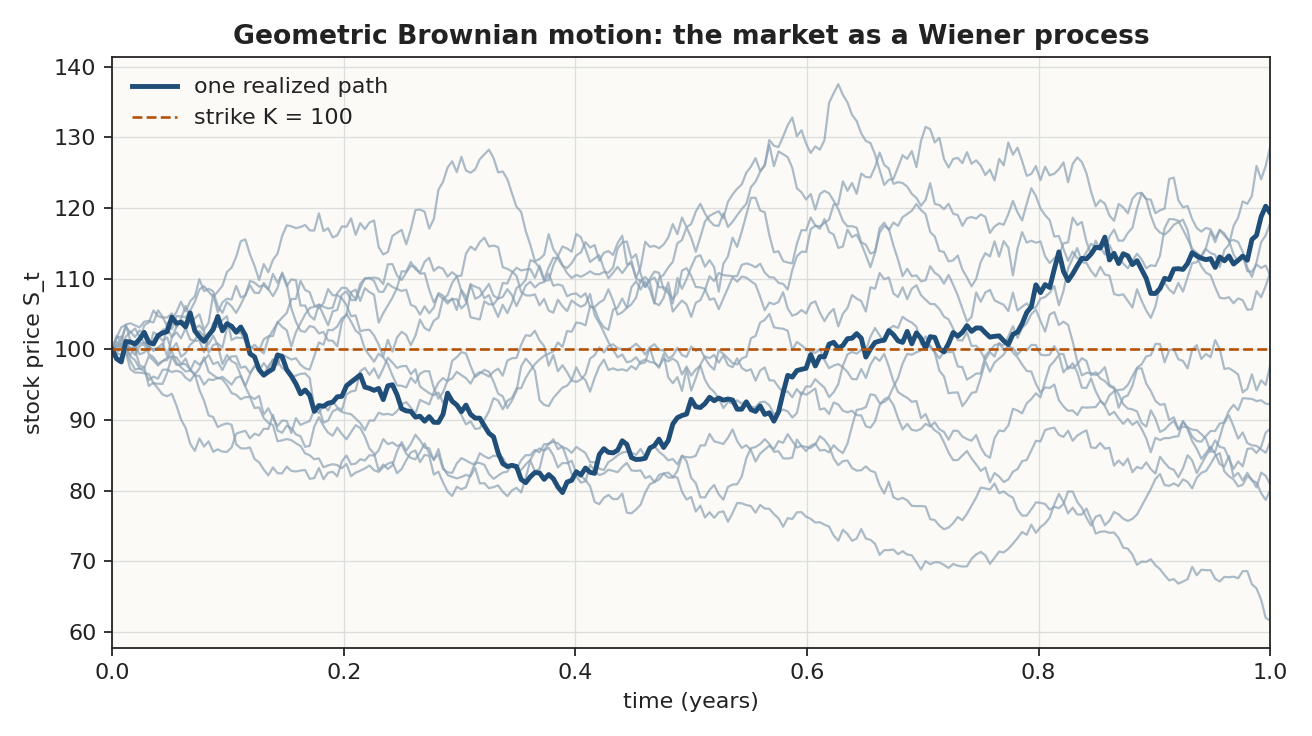
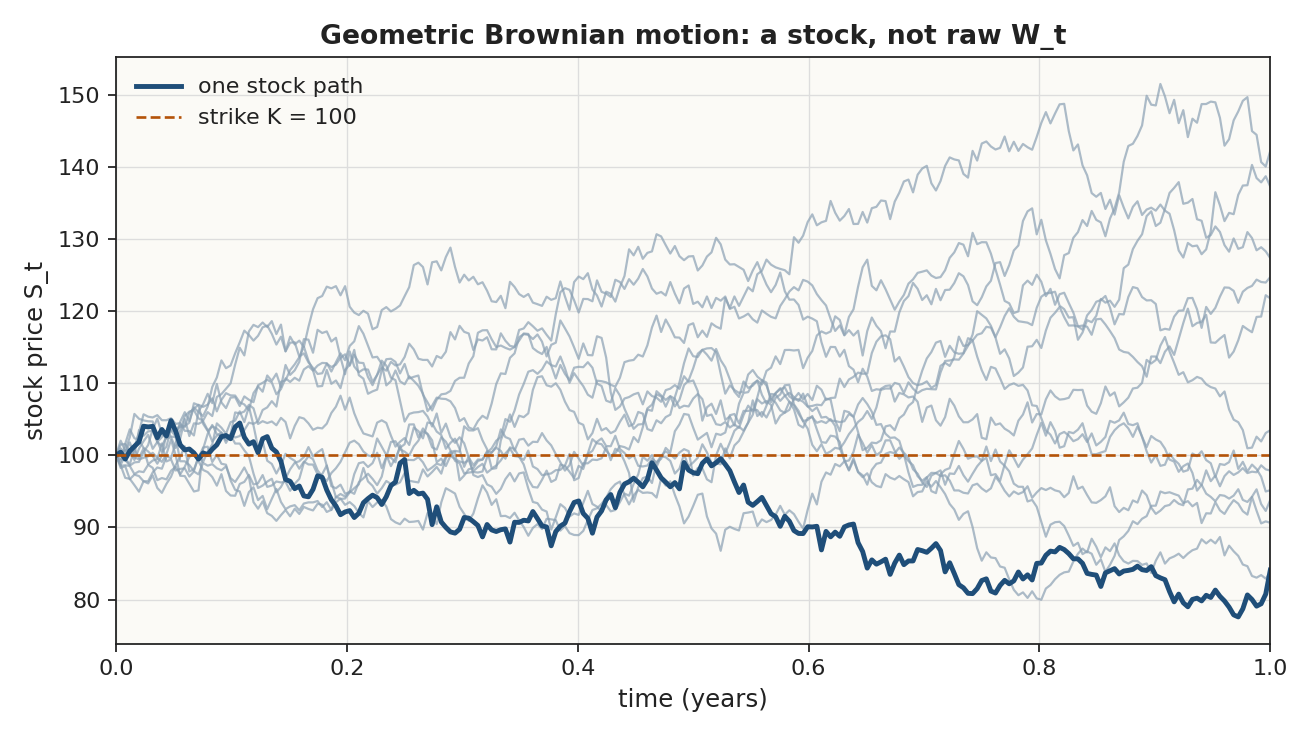
Define Brownian motion in math and pictures for the BSM note
Add the coin-flip construction, W_t ~ N(0,t) with path and
histogram figures, then define leftover terms on first use.

diff --git a/_posts/2024-07-25-Black-Scholes-Merton.md b/_posts/2024-07-25-Black-Scholes-Merton.md
@@ -6,7 +6,7 @@ categories: wealth
 mathjax: true
 ---
 
-The Black–Scholes–Merton formula prices a European call on a non-dividend stock. Fischer Black and Myron Scholes published the PDE and its solution in 1973; Robert Merton derived the same price from a more general theory the same year. The inputs are the spot $S_t$, the strike $K$, the time to expiry $\tau = T-t$, a constant interest rate $r$, and a constant volatility $\sigma$. The output is
+The Black–Scholes–Merton formula prices a European call on a stock that pays no dividend. Fischer Black and Myron Scholes published it in 1973; Robert Merton derived the same price from a more general theory the same year. The inputs are the current stock price $S_t$ (the **spot**), the strike $K$, the time left until expiry $\tau = T-t$, a constant interest rate $r$, and a constant **volatility** $\sigma$ (how wildly the stock's *log* return wiggles, measured as a standard deviation per square-root year). The output is
 
 $$
 C(S_t,K,T) = S_t\,\Phi(d_1) - K e^{-r\tau}\,\Phi(d_2), \tag{1}
@@ -16,18 +16,20 @@ $$
 d_1 = \frac{\ln(S_t/K)+\bigl(r+\tfrac12\sigma^2\bigr)\tau}{\sigma\sqrt{\tau}}, \qquad d_2 = d_1 - \sigma\sqrt{\tau},
 $$
 
-where $\Phi$ is the standard normal cdf,
+where $\Phi$ is the **cumulative distribution function** (cdf) of the standard normal: the area under the bell curve to the left of $x$, which is also the probability that a standard-normal random variable $Z$ satisfies $Z\le x$,
 
 $$
-\Phi(x) = \frac{1}{\sqrt{2\pi}}\int_{-\infty}^{x} e^{-u^2/2}\,du.
+\Phi(x) = P(Z\le x) = \frac{1}{\sqrt{2\pi}}\int_{-\infty}^{x} e^{-u^2/2}\,du.
 $$
 
-This note derives $(1)$ from the lognormal law of $S_T$. The stock is a geometric Brownian motion; Itô's lemma makes $\ln S_T$ Gaussian; under the risk-neutral measure the parameters of that Gaussian are known; the call is then two integrals against a lognormal, and both integrals evaluate in closed form once you complete the square. A change of numeraire gives the same formula by a different bookkeeping. The PDE is recorded at the end as the same argument in another costume.
+This note derives $(1)$ by showing that the future stock price $S_T$ is **lognormal** (its logarithm is a bell curve) and then integrating the call payoff against that law. The noise in the stock is a **Brownian motion**, defined and graphed below. A second bookkeeping — changing the unit of account — gives the same formula. A partial differential equation at the end is the same argument in another costume.
 
 - [What is being priced](#what-is-being-priced)
 - [A numerical check](#a-numerical-check)
+- [Brownian motion](#brownian-motion)
+- [The stock: geometric Brownian motion](#the-stock-geometric-brownian-motion)
 - [Assumptions](#assumptions)
-- [Wiener processes and martingales](#wiener-processes-and-martingales)
+- [Martingales](#martingales)
 - [Itô's lemma](#itos-lemma)
 - [Risk-neutral pricing](#risk-neutral-pricing)
 - [Toolkit: the lognormal](#toolkit-the-lognormal)
@@ -50,11 +52,11 @@ $$
 (S_T - K)^+ = \max(S_T - K,\, 0).
 $$
 
-A **European put** is the right to sell at $K$, payoff $(K - S_T)^+$. An **American** contract may be exercised at any time up to $T$. That extra right is a genuine complication: the holder is solving an optimal-stopping problem, and there is no two-$\Phi$ formula for a general American put. One mercy, due to Merton: a call on a non-dividend stock is never exercised early, so the American call collapses to the European one. We price the European call. The European put then follows from put-call parity, not from a second integral.
+A **European put** is the right to sell at $K$, payoff $(K - S_T)^+$. An **American** contract may be exercised at any time up to $T$. That extra right is a genuine complication: at every moment the holder must decide whether to exercise now or wait, and there is no two-$\Phi$ formula for a general American put. One mercy, due to Merton: a call on a non-dividend stock is never exercised early, so the American call collapses to the European one. We price the European call. The European put then follows from put-call parity, not from a second integral.
 
 ![A European call: the kink at expiry, the smooth price today](/blog/assets/2024/bsm/call-payoff.png)
 
-The brown line is the expiry payoff. The blue curve is the time-$t$ value of that lottery, for one year of remaining life and the parameters of the next section. The shaded gap is time value. Equation $(1)$ is a machine that draws the blue curve.
+The brown line is the expiry payoff. The blue curve is the time-$t$ value of that lottery, for one year of remaining life and the parameters of the next section. The shaded gap is **time value**: extra worth from still having time left for the stock to wander. Equation $(1)$ is a machine that draws the blue curve.
 
 ---
 
@@ -75,12 +77,12 @@ $$
 
 | Symbol | Meaning |
 |---|---|
-| $S_t$ | spot |
-| $K$ | strike |
-| $r$ | continuously compounded risk-free rate, constant |
-| $\tau = T-t$ | time remaining, in years |
-| $\sigma$ | volatility of the *log* return, per square-root year |
-| $\Phi$ | standard normal cdf |
+| $S_t$ | spot: the stock price right now |
+| $K$ | strike: the price the call lets you buy at |
+| $r$ | risk-free interest rate, compounded continuously, held constant |
+| $\tau = T-t$ | time remaining until expiry, in years |
+| $\sigma$ | volatility: standard deviation of the log return, per $\sqrt{\text{year}}$ |
+| $\Phi$ | standard normal cdf, $P(Z\le x)$ |
 
 ```python
 from math import log, exp, sqrt, erf
@@ -94,64 +96,133 @@ print(S*Phi(d1) - K*exp(-r*tau)*Phi(d2))
 
 ---
 
-# Assumptions
-{: #assumptions}
+# Brownian motion
+{: #brownian-motion}
 
-Four assumptions do the mathematics. A fifth is the trading plumbing that lets the mathematics be a *price*.
+A **Brownian motion** — also called a **Wiener process**, written $W_t$ — is the model of pure noise used in this note. Picture a pollen grain on a water surface, or a walker who at every instant takes a tiny random step up or down. The walker's height at time $t$ is $W_t$.
 
-1. **The stock is a geometric Brownian motion with constant coefficients.**
+It is *not* a stock price. It starts at $0$, it is as likely to be negative as positive, and its typical size at time $t$ is $\sqrt{t}$, not $t$. The stock will be built from it in the next section.
+
+## A coin-flip construction
+
+Fix a time horizon $T$ and chop it into $n$ equal pieces of length $\Delta t = T/n$. Flip a fair coin at each tick. On heads walk up $\sqrt{\Delta t}$; on tails walk down $\sqrt{\Delta t}$. After time $t = k\,\Delta t$ the position is
+
+$$
+W_t^{(n)} = \sqrt{\Delta t}\,(\xi_1 + \cdots + \xi_k), \qquad \xi_i = \pm 1 \text{ with equal probability}.
+$$
+
+Each step has mean $0$ and variance $\Delta t$, so the sum of $k$ steps has mean $0$ and variance $k\,\Delta t = t$. The central limit theorem — a sum of many small independent kicks becomes a bell curve — says that for large $n$ the position at a fixed $t$ is approximately $\mathcal{N}(0,t)$. Send $n\to\infty$ and the staircase becomes a continuous scribble. That scribble is Brownian motion.
+
+![A fair coin-flip walk becoming Brownian motion](/blog/assets/2024/bsm/random-walk-to-brownian.png)
+
+The three panels are the *same* sequence of coin flips, grouped into fewer, larger steps on the left and drawn almost continuously on the right. Brownian motion is the right-hand picture, taken as a mathematical limit.
+
+## The four properties, in symbols
+
+A **standard Brownian motion** is a random function $t\mapsto W_t$ satisfying:
+
+1. **Starts at zero.** $W_0 = 0$.
+2. **Independent increments.** For $t>s$, the future step $W_t-W_s$ does not depend on the path before time $s$. The next wiggle does not remember how it got here.
+3. **Gaussian increments.** $W_t - W_s \sim \mathcal{N}(0,\, t-s)$. In words: over an interval of length $\Delta t$ the step is drawn from a bell curve with mean $0$ and variance $\Delta t$. In particular the position itself is
    $$
-   dS_t = \mu S_t\,dt + \sigma S_t\,dW_t. \tag{2}
+   W_t \sim \mathcal{N}(0,t), \qquad \mathbb{E}[W_t] = 0, \qquad \mathrm{Var}(W_t) = t.
    $$
-   Prices stay positive, returns compound, and the only randomness is a single Wiener process $W_t$. No jumps, no stochastic volatility. This is what makes $S_T$ lognormal.
+   The **typical size** of $W_t$ is therefore the standard deviation $\sqrt{t}$, not $t$. Over a short interval the typical move is $\sqrt{\Delta t}$, which is much larger than $\Delta t$ itself when $\Delta t$ is small.
+4. **Continuous paths.** The graph of $t\mapsto W_t$ has no jumps. It is a jagged scribble with no breaks.
 
-2. **The short rate $r$ is a known constant.** Borrowing and lending are unlimited at $r$. The money-market account is then $B_t = e^{rt}$. Merton later let $r$ wander; the two-$\Phi$ formula does not survive that generalization in this form.
+**Normal reminder.** We write $Z\sim\mathcal{N}(m,s^2)$ to mean that $Z$ has the bell-curve (**Gaussian**, **normal**) density
 
-3. **No dividends during the life of the option.** A cash dividend drops $S$ by the amount paid and would change both the hedge and the law of $S_T$. The repair, recorded at the end, is one letter: a continuous yield $q$ replaces $S_t$ by $S_t e^{-q\tau}$ and $r$ by $r-q$ inside $d_1,d_2$.
+$$
+f(z) = \frac{1}{s\sqrt{2\pi}}\exp\Bigl(-\frac12\Bigl(\frac{z-m}{s}\Bigr)^2\Bigr).
+$$
 
-4. **No arbitrage, continuous trading, a complete market.** One source of noise and two traded assets (stock and bond) means every reasonable payoff can be replicated. The replicating portfolio's value is the price, and that is why the physical drift $\mu$ will cancel: the hedge does not contain it.
+The number $m$ is the mean, $s^2$ is the variance. The **standard normal** is the special case $\mathcal{N}(0,1)$. The function $\Phi$ at the top of this note is $P(Z\le x)$ for a standard normal $Z$.
 
-Plumbing, said once: short sales are allowed, proceeds may be used, securities are perfectly divisible, there are no transaction costs. None of that enters an integral.
+![Standard Brownian motion: paths, the $\sqrt{t}$ envelope, and the law of $W_1$](/blog/assets/2024/bsm/brownian-motion.png)
 
-The gap between this universe and listed options is the subject of Derman and Miller's *The Volatility Smile*. The market still *quotes* in the language of $(1)$.
+On the left, every path starts at $0$ and wanders equally above and below the axis — several paths are *negative*, which a stock price cannot be. The shaded trumpet is the band $\pm 2\sqrt{t}$; at each fixed $t$ about 95% of paths sit inside it, because a normal random variable is within two standard deviations of its mean about 95% of the time. On the right, many independent runs are stopped at $t=1$ and histogrammed. The histogram is the $\mathcal{N}(0,1)$ density, which is property 3 at $t=1$.
 
----
+## The increment $dW_t$, and why ordinary calculus fails
 
-# Wiener processes and martingales
-{: #wiener-processes-and-martingales}
-
-The Wiener process $W_t$ (standard Brownian motion) is the stand-in for market noise: not for the *level* of prices, which have drift and stay positive, but for the irreducible jitter.
-
-1. $W_0 = 0$.
-2. Independent increments: $W_t - W_s$ is independent of the path up to $s$.
-3. Gaussian increments: $W_t - W_s \sim \mathcal{N}(0,\,t-s)$. In particular the typical move over $\Delta t$ has size $\sqrt{\Delta t}$, not $\Delta t$.
-4. Continuous paths, almost surely.
-
-Paths are almost surely nowhere differentiable, so the ordinary chain rule does not apply. The multiplication table that replaces it is
+Write $dW_t$ for the increment of $W$ over an instant of length $dt$. Property 3 says $dW_t$ is approximately $\mathcal{N}(0,dt)$, so $(dW_t)^2$ is typically of size $dt$, not $(dt)^2$. That is the multiplication table we will use:
 
 $$
 dt\cdot dt \to 0, \qquad dt\cdot dW_t \to 0, \qquad dW_t\cdot dW_t \to dt.
 $$
 
-The third rule is quadratic variation. Over a partition of $[0,t]$ into $n$ steps of length $\Delta t = t/n$, each increment satisfies $\mathbb{E}[(\Delta W_i)^2] = \Delta t$, the sum of the squares has expectation $t$, and the variance of that sum is $O(1/n)$. The sum converges to $t$ in probability: $\langle W\rangle_t = t$. In the infinitesimal shorthand, $(dW_t)^2 = dt$.
+The third rule has a name, **quadratic variation**. Chop $[0,t]$ into $n$ steps of length $\Delta t=t/n$. Each increment $\Delta W_i$ satisfies $\mathbb{E}[(\Delta W_i)^2]=\Delta t$, so the sum of the squares has expectation $t$. The variance of that sum shrinks like $1/n$ and vanishes as $n\to\infty$. The sum of squared wiggles converges to $t$: in the infinitesimal shorthand, $(dW_t)^2=dt$. Ordinary calculus throws $(dx)^2$ away. Here it is the same size as $dt$, so it must be kept. That is why, when we later differentiate functions of $S_t$, we will need Itô's lemma rather than the chain rule from Calculus 1.
 
-A process $M_t$ is a **martingale** if $\mathbb{E}[M_T\mid\mathcal{F}_t] = M_t$. Read $\mathcal{F}_t$ as the information available at time $t$. A martingale is a fair game: given what you know now, the expected future value is the present value. $W_t$ itself is a martingale. The physical stock $S_t$ is not — it has drift $\mu$. Derivative pricing lives on a different probability measure $\mathbb{Q}$, equivalent to the real-world measure $\mathbb{P}$, under which the *discounted* stock $S_t/B_t$ **is** a martingale. Under $\mathbb{Q}$ every traded asset earns $r$ on average. The call price is then an expectation under this fair-game measure, discounted at $r$.
+The paths are so jagged that, with probability $1$, they have no tangent line anywhere. You cannot write $dW_t/dt$. You can only write $dW_t$.
 
-Two stand-ins:
+---
 
-- $W_t$ stands in for the market's noise.
+# The stock: geometric Brownian motion
+{: #the-stock-geometric-brownian-motion}
+
+$W_t$ is a bad model for a stock. It can be negative, and a \$100 stock and a \$10 stock should not make dollar moves of the same typical size. The model used here is **geometric Brownian motion**: the *percentage* move is Brownian.
+
+$$
+dS_t = \mu S_t\,dt + \sigma S_t\,dW_t. \tag{2}
+$$
+
+Read the equation as a recipe for a short interval $dt$:
+
+- the stock grows by a deterministic fraction $\mu\,dt$ (the **drift** $\mu$ is the expected rate of return);
+- plus a random fraction $\sigma\,dW_t$ (the **volatility** $\sigma$ scales the Brownian increment).
+
+Because the noise is multiplied by the current price $S_t$, a \$200 stock wiggles twice as many dollars as a \$100 stock, and $S_t$ stays positive. The $d$ on the left is the same kind of increment as $dW_t$: it is not a derivative, it is a small change.
+
+![Geometric Brownian motion: stock paths, which stay positive](/blog/assets/2024/bsm/gbm-paths.png)
+
+Each path is one draw of $W$, turned into a price by $(2)$. Compare with the previous figure: these paths cannot cross zero, and they spread in proportion to the level of $S$. A European call with the dashed strike pays the excess over $100$ if the path ends above the line, and zero otherwise. Pricing the call is averaging that payoff over every such path — under a fair-game probability we will define after the assumptions, not under the real-world drift $\mu$.
+
+---
+
+# Assumptions
+{: #assumptions}
+
+Four assumptions do the mathematics. A fifth is the trading plumbing that lets the mathematics be a *price*.
+
+1. **The stock follows the geometric Brownian motion $(2)$, with $\mu$ and $\sigma$ constant.** One source of randomness, namely the single Brownian motion $W_t$. No sudden jumps, no volatility that itself wiggles. This is what makes $S_T$ lognormal.
+
+2. **The interest rate $r$ is a known constant.** You may borrow or lend any amount at this rate. A dollar deposited in the **money-market account** (a riskless savings account) grows to $B_t = e^{rt}$. The exponential is **continuous compounding**: interest is added every instant, so the growth factor over time $t$ is $e^{rt}$ rather than $(1+r)^t$. Merton later let $r$ wander; the two-$\Phi$ formula does not survive that generalization in this form.
+
+3. **No dividends during the life of the option.** A cash dividend drops $S$ by the amount paid and would change both the hedge and the law of $S_T$. The repair, recorded at the end, is one letter: a continuous yield $q$ replaces $S_t$ by $S_t e^{-q\tau}$ and $r$ by $r-q$ inside $d_1,d_2$.
+
+4. **No arbitrage, continuous trading, a complete market.** An **arbitrage** is a riskless profit — a free lunch. **Continuous trading** means you may rebalance at every instant. A market is **complete** when every payoff you can write down can be manufactured by trading the stock and the money-market account. Here there is one source of noise and two traded assets, so the market is complete. The manufactured (replicating) portfolio's value *is* the price, and that is why the physical drift $\mu$ will cancel: the hedge does not contain it.
+
+Plumbing, said once: you may sell a stock you do not own (**short selling**) and use the cash, securities may be held in any fractional amount, and there are no transaction costs. None of that enters an integral.
+
+The gap between this universe and listed options is the subject of Derman and Miller's *The Volatility Smile*. The market still *quotes* in the language of $(1)$.
+
+---
+
+# Martingales
+{: #martingales}
+
+A **stochastic process** is a family of random variables indexed by time — a random path. A process $M_t$ is a **martingale** if
+
+$$
+\mathbb{E}[M_T\mid \text{information up to time }t] = M_t.
+$$
+
+In words: a martingale is a **fair game**. Given what you know now, the expected future value *is* the present value. You should not expect to win or to lose. The notation $\mathcal{F}_t$ is the usual name for “the information available at time $t$,” so the same sentence is written $\mathbb{E}[M_T\mid\mathcal{F}_t]=M_t$.
+
+Brownian motion itself is a martingale: $\mathbb{E}[W_T\mid W_t]=W_t$, because the remaining increment $W_T-W_t$ has mean $0$ and is independent of the past. The physical stock $S_t$ is *not* a martingale — it has drift $\mu$, which is why anyone bothers to own it.
+
+Derivative pricing lives on a different assignment of probabilities, written $\mathbb{Q}$ and called the **risk-neutral measure**. A **probability measure** is just a consistent way of assigning probabilities to outcomes. The real-world measure is written $\mathbb{P}$. We say $\mathbb{Q}$ is **equivalent** to $\mathbb{P}$ when the two agree on which events are impossible (probability zero); they may disagree on how likely the possible events are. Under $\mathbb{Q}$ the **discounted** stock $S_t/B_t$ — the stock measured in time-$0$ dollars, by dividing out the growth of the money-market account — **is** a martingale: every traded asset earns $r$ on average, so risk is not paid extra. The call price is then an expectation under this fair-game measure, multiplied by $e^{-r\tau}$ to bring the future payoff back to today.
+
+Two stand-ins, for the rest of the note:
+
+- Brownian motion $W_t$ stands in for the market's noise.
 - A martingale stands in for the market's fairness, once the probabilities have been changed so that risk is not paid extra.
-
-![Geometric Brownian motion: twelve draws of the same market](/blog/assets/2024/bsm/gbm-paths.png)
-
-Each path is one realization of $W$, exponentiated so $S$ cannot go negative. A European call on the dashed strike pays the excess over $100$ if the path ends above the line, and zero otherwise. Pricing the call is averaging that payoff over every path, under $\mathbb{Q}$, not under $\mathbb{P}$.
 
 ---
 
 # Itô's lemma
 {: #itos-lemma}
 
-Let $X_t$ satisfy $dX_t = a\,dt + b\,dW_t$, with $a$ and $b$ allowed to depend on $X$ and $t$. For smooth $f(t,x)$,
+Let $X_t$ satisfy $dX_t = a\,dt + b\,dW_t$, with $a$ and $b$ allowed to depend on $X$ and $t$. For a function $f(t,x)$ that is twice differentiable in $x$ and once in $t$ (the usual meaning of **smooth** here),
 
 $$
 df(t,X_t) = \Bigl(f_t + a f_x + \tfrac12 b^2 f_{xx}\Bigr)dt + b f_x\,dW_t. \tag{3}
@@ -187,13 +258,13 @@ The $\tfrac12\sigma^2$ that left the log-drift returns in the mean of the lognor
 # Risk-neutral pricing
 {: #risk-neutral-pricing}
 
-Girsanov's theorem says a Brownian motion may be given an extra drift and remain a Brownian motion, provided the probabilities are changed. The tilt we want is the market price of risk $\theta = (\mu-r)/\sigma$, the stock's excess return per unit of volatility. Set
+**Girsanov's theorem** is the fact that you may add a drift to a Brownian motion and still have a Brownian motion, provided you change which paths you treat as likely. The tilt we want is the **market price of risk** $\theta = (\mu-r)/\sigma$: excess return on the stock per unit of volatility. Set
 
 $$
 W_t^{\mathbb{Q}} = W_t + \theta t.
 $$
 
-Then $W^{\mathbb{Q}}$ is Brownian motion under a measure $\mathbb{Q}\sim\mathbb{P}$. Substitute $dW = dW^{\mathbb{Q}} - \theta\,dt$ into $(2)$:
+Then $W^{\mathbb{Q}}$ is Brownian motion under the risk-neutral measure $\mathbb{Q}$ (the notation $\mathbb{Q}\sim\mathbb{P}$ means the two measures are equivalent, as in the previous section). Substitute $dW = dW^{\mathbb{Q}} - \theta\,dt$ into $(2)$:
 
 \begin{align*}
 dS_t
@@ -203,7 +274,7 @@ dS_t
 
 The physical drift $\mu$ has been replaced by $r$. That is the content of "risk-neutral."
 
-Let $\tilde S_t = S_t e^{-rt}$ be the stock in time-$0$ dollars. The product rule plus Itô (the cross variation $dS\cdot d(e^{-rt})$ vanishes) gives, under $\mathbb{Q}$,
+Let $\tilde S_t = S_t e^{-rt}$ be the stock in time-$0$ dollars. The ordinary product rule, plus Itô (the mixed increment $dS\cdot d(e^{-rt})$ is a $dW\cdot dt$ term, which the multiplication table sends to $0$), gives, under $\mathbb{Q}$,
 
 $$
 d\tilde S_t = \sigma\tilde S_t\,dW_t^{\mathbb{Q}}.
@@ -234,7 +305,7 @@ Equation $(6)$ is now an integral against that lognormal. Two traders who disagr
 # Toolkit: the lognormal
 {: #toolkit-the-lognormal}
 
-This is the engine. Let $Y\sim\mathcal{N}(m,s^2)$ and $X=e^Y$, so $X$ is lognormal and $X>0$ almost surely. Completing the square in the Gaussian integral for $e^Y$ gives the mean; a second moment computation gives the variance:
+This is the engine. Let $Y\sim\mathcal{N}(m,s^2)$ and $X=e^Y$, so $X$ is lognormal and $X>0$ with probability $1$. Completing the square in the Gaussian integral for $e^Y$ gives the mean; a second moment computation gives the variance:
 
 $$
 \mathbb{E}[X] = e^{m+s^2/2}, \qquad \mathrm{Var}(X) = \bigl(e^{s^2}-1\bigr)e^{2m+s^2}. \tag{8}
@@ -246,7 +317,7 @@ $$
 f_X(x) = \frac{1}{s\,x\sqrt{2\pi}}\exp\Bigl(-\frac12\Bigl(\frac{\ln x-m}{s}\Bigr)^2\Bigr), \qquad x>0. \tag{9}
 $$
 
-The extra $1/x$ is the Jacobian. The cdf is the Gaussian cdf evaluated at $\ln x$:
+The extra $1/x$ is the stretching factor from the substitution (sometimes called the Jacobian): $dy=dx/x$. The cdf is the Gaussian cdf evaluated at $\ln x$:
 
 $$
 F_X(x) = \Phi\Bigl(\frac{\ln x-m}{s}\Bigr). \tag{10}
@@ -257,6 +328,8 @@ The call does not need $\mathbb{E}[X]$ and does not need $\mathbb{E}[X\mid X>K]$
 $$
 L_X(K) := \mathbb{E}\bigl[X\,1_{\{X>K\}}\bigr] = \int_K^{\infty} x\,f_X(x)\,dx. \tag{11}
 $$
+
+The symbol $1_{\{X>K\}}$ is the **indicator** of the event $\{X>K\}$: it equals $1$ when $X>K$ and $0$ otherwise, so $X\,1_{\{X>K\}}$ keeps $X$ on the upper tail and throws the rest away.
 
 This is not the conditional tail expectation $\mathbb{E}[X\mid X>K]$, which would divide $(11)$ by $1-F_X(K)$. (That mix-up appears in some notes, including Rouah's; the integral they write is $(11)$, and $(11)$ is the object that enters the call.)
 
@@ -311,7 +384,7 @@ That is the identity Route I spends. Completing the square shifted the mean of $
 # Route I: two lognormal integrals
 {: #route-i-two-lognormal-integrals}
 
-Start from $(6)$ and split the payoff on the event $\{S_T>K\}$:
+Start from $(6)$ and split the payoff on the event $\{S_T>K\}$. Write $F$ for the cdf of $S_T$ under $\mathbb{Q}$, so $\int g\,dF$ means the expected value of $g(S_T)$ — if $F$ has density $f$, this is the ordinary integral $\int g(x)\,f(x)\,dx$:
 
 \begin{align*}
 C
@@ -358,13 +431,13 @@ $$
 
 which is $(1)$.
 
-**Reading the two terms.** $\Phi(d_2)=\mathbb{Q}(S_T>K)$ is the risk-neutral probability of exercise, so the second term is a cash-or-nothing binary: $K$ zero-coupon bonds that pay if and only if the call finishes in the money. The first term is a share-or-nothing binary. $\Phi(d_1)$ is the same exercise probability after the mean shift $m\mapsto m+s^2$ that $(14)$ performed — equivalently, as Route II will show, the exercise probability when the unit of account is the stock itself.
+**Reading the two terms.** $\Phi(d_2)=\mathbb{Q}(S_T>K)$ is the risk-neutral probability of exercise, so the second term is a **cash-or-nothing** contract: $K$ dollars paid at $T$ if and only if the call finishes **in the money** ($S_T>K$), and nothing otherwise. (A claim to one dollar at $T$ is a **zero-coupon bond**, worth $e^{-r\tau}$ today, which is why $K$ is multiplied by $e^{-r\tau}$.) The first term is a **share-or-nothing**: you receive one share if $S_T>K$, and nothing otherwise. $\Phi(d_1)$ is the same exercise probability after the mean shift $m\mapsto m+s^2$ that $(14)$ performed — equivalently, as Route II will show, the exercise probability when the unit of account is the stock itself.
 
 ![Two evaluations of the same bell curve](/blog/assets/2024/bsm/phi-anatomy.png)
 
-For the ATM numbers above, $d_1$ and $d_2$ sit $\sigma\sqrt{\tau}=0.20$ apart. That gap is the Itô correction, visible on the page.
+For the at-the-money numbers above (spot equals strike), $d_1$ and $d_2$ sit $\sigma\sqrt{\tau}=0.20$ apart. That gap is the Itô correction, visible on the page.
 
-**Put-call parity.** A European call minus a European put with the same strike and expiry is a forward, and a forward on a non-dividend stock is worth $S_t - K e^{-r\tau}$:
+**Put-call parity.** A European call minus a European put with the same strike and expiry is a **forward** — a contract that obliges you to buy the stock at $K$ at time $T$, with no choice. A forward on a non-dividend stock is worth $S_t - K e^{-r\tau}$:
 
 $$
 C - P = S_t - K e^{-r\tau}.
@@ -376,7 +449,7 @@ $$
 P = K e^{-r\tau}\,\Phi(-d_2) - S_t\,\Phi(-d_1).
 $$
 
-For the ATM numbers, $P\approx 5.57$. The call is worth more than the put because the forward is in the money once $r>0$.
+For those same numbers, $P\approx 5.57$. The call is worth more than the put because the forward is already profitable once $r>0$.
 
 **Remark (standard-normal coordinates).** Writing $S_T = S_t\exp\bigl((r-\sigma^2/2)\tau + \sigma\sqrt{\tau}\,Z\bigr)$ with $Z\sim\mathcal{N}(0,1)$, the event $\{S_T>K\}$ becomes $\{Z>-d_2\}$, and the partial expectation $\mathbb{E}[S_T 1_{\{Z>-d_2\}}]$ is the same completed square as $(12)$–$(14)$, now in the variable $Z$. Same algebra, different name for the integration variable.
 
@@ -463,17 +536,17 @@ Same formula. The two $\Phi$ terms are now both probabilities, each belonging to
 # The PDE, briefly
 {: #the-pde-briefly}
 
-Black and Scholes did not start from $(6)$. They started from a portfolio $\Pi=-V+\Delta S$. Itô-expand $dV$, choose $\Delta=V_S$ so the $dW$ terms cancel (**delta-hedging**), and require the now-riskless $\Pi$ to earn $r$, or else there is an arbitrage against the money-market account. The result is the Black–Scholes PDE
+Black and Scholes did not start from $(6)$. They started from a portfolio $\Pi=-V+\Delta S$ (short one option, long $\Delta$ shares). Expand $dV$ with Itô's lemma, choose $\Delta=V_S$ so the $dW$ terms cancel — that choice is **delta-hedging**, and $V_S$ is the **delta** of the option — and require the now-riskless $\Pi$ to earn $r$, or else there is an arbitrage against the money-market account. The result is the Black–Scholes **partial differential equation** (PDE): an equation relating the partial derivatives of $V$ with respect to $t$ and $S$,
 
 $$
 V_t + rS V_S + \tfrac12\sigma^2 S^2 V_{SS} - rV = 0, \tag{17}
 $$
 
-with $V(S,T)=(S-K)^+$. The drift $\mu$ cancelled with the $dW$ terms. The coefficient $V_{SS}$ is the gamma; $\tfrac12\sigma^2 S^2 V_{SS}$ is Itô's correction, now sitting in a PDE.
+with $V(S,T)=(S-K)^+$. The drift $\mu$ cancelled with the $dW$ terms. The second derivative $V_{SS}$ is the **gamma**; $\tfrac12\sigma^2 S^2 V_{SS}$ is Itô's correction, now sitting in a PDE.
 
-Feynman–Kac is the dictionary between $(17)$ and $(6)$: a parabolic PDE with drift coefficient $rS$ and discount $r$ is solved by $e^{-r\tau}\mathbb{E}^{\mathbb{Q}}[h(S_T)\mid S_t]$ along the diffusion $(5)$. The hedging argument produces the PDE; Feynman–Kac translates it into the integral Route I already evaluated.
+The **Feynman–Kac theorem** is the dictionary between $(17)$ and $(6)$: a PDE of this shape, with drift coefficient $rS$ and discount $r$, is solved by $e^{-r\tau}\mathbb{E}^{\mathbb{Q}}[h(S_T)\mid S_t]$ along the stock $(5)$. The hedging argument produces the PDE; Feynman–Kac translates it into the integral Route I already evaluated.
 
-A further change of variables — $x=\ln(S/K)$, time-to-go rescaled by $\sigma^2/2$, an exponential prefactor to absorb discounting — turns $(17)$ into the heat equation $W_{\tilde\tau}=W_{xx}$. The fundamental solution is a Gaussian, and the antiderivative of a Gaussian is $\Phi$. The algebra is written out in Rouah §7 of the [hosted note](/blog/assets/2024/bsm/Black-Scholes-Formula-Rouah.pdf). The Gaussian in $(1)$ is both the transition density of geometric Brownian motion and the heat kernel: the same assumption, two costumes.
+A further change of variables — $x=\ln(S/K)$, time-to-go rescaled by $\sigma^2/2$, an exponential prefactor to absorb discounting — turns $(17)$ into the **heat equation** $W_{\tilde\tau}=W_{xx}$, the same PDE that describes temperature spreading along a rod. The solution that starts as a spike at the origin and then smears out is a Gaussian (the **heat kernel**). Integrate a Gaussian and you get $\Phi$. The algebra is written out in Rouah §7 of the [hosted note](/blog/assets/2024/bsm/Black-Scholes-Formula-Rouah.pdf). The bell curve in $(1)$ is both the law of where geometric Brownian motion ends up and the shape of spreading heat: the same assumption, two costumes.
 
 ---
 
@@ -488,11 +561,11 @@ $$
 
 $r$ replaced by $r-q$ inside $d_1$ and $d_2$ as well. Index options live here ($q$ is the basket yield), FX options live here ($q$ is the foreign rate), and futures options live here ($q=r$: Black 1976).
 
-**The smile.** After 1987 the market stopped believing in a single $\sigma$. Implied volatility against strike is a smile, or in equities a smirk. Traders still quote in Black–Scholes implied vol. They do not believe the lognormal assumption that produced it.
+**The smile.** After 1987 the market stopped believing in a single $\sigma$. **Implied volatility** is the number $\sigma$ you must feed into $(1)$ to recover the price the market is actually quoting. Plot that number against strike and you get a smile, or in equities a smirk. Traders still quote in Black–Scholes implied vol. They do not believe the lognormal assumption that produced it.
 
-**Jumps, stochastic vol, Americans.** Merton added Poisson jumps. Heston let $\sigma_t$ diffuse. Dupire showed that a surface of implied vols is equivalent to a local-vol diffusion that refits every vanilla. None of these has a two-$\Phi$ formula of the same shape. The American put is an optimal-stopping problem; a binomial tree is the honest computation.
+**Jumps, stochastic vol, Americans.** Merton added sudden jumps (a Poisson process: events that arrive at random times). Heston let $\sigma_t$ itself wander. Dupire showed that a whole surface of implied vols is equivalent to a local-vol model — $\sigma$ depends on $S$ and $t$ — that refits every ordinary call and put. None of these has a two-$\Phi$ formula of the same shape. The American put has no closed form of this kind; a binomial tree (the coin-flip walk, used as a calculator) is the honest computation.
 
-What has been proved is a theorem about a complete market driven by one Wiener process: the unique no-arbitrage price of $(S_T-K)^+$ is $(1)$. Using that theorem as a price, as a quoting convention, or as the first term of a perturbation is a separate decision.
+What has been proved is a theorem about a complete market driven by one Brownian motion: the unique no-arbitrage price of $(S_T-K)^+$ is $(1)$. Using that theorem as a price, as a quoting convention, or as the first term of an approximation is a separate decision.
 
 ---
 
